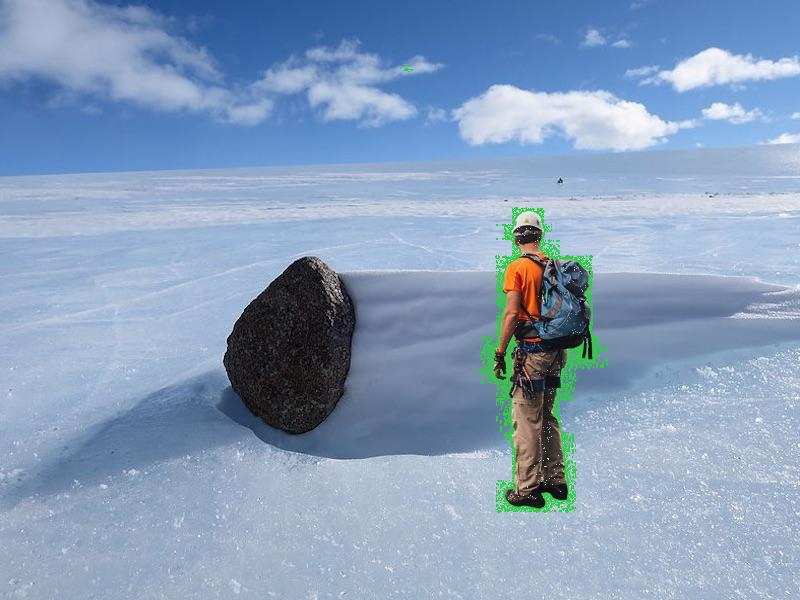
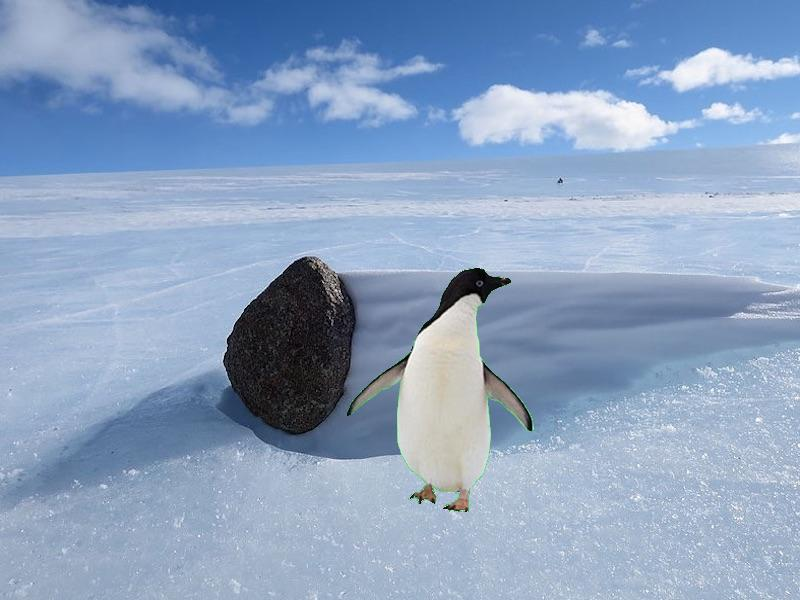
Added Checkpoint09

Changed region(s): [[0.4375, 0.33, 0.7812, 0.87], [0.5, 0.09, 0.5312, 0.12]]

diff --git a/Week8/cse110_images/prove08.py b/Week8/cse110_images/prove08.py
@@ -2,7 +2,7 @@
 from PIL import Image
 
 # Open and set images
-penguin_image = Image.open("hiker.jpg")
+penguin_image = Image.open("penguin.jpg")
 snow_image = Image.open("snowscape.jpg")
 final_image = Image.new("RGB", penguin_image.size)
 
@@ -12,14 +12,21 @@ pixels_snow = snow_image.load()
 pixels_final = final_image.load()
 
 # Printing RGB values of pixel (1, 1)
-print(pixels_final[1,1])
+print(pixels_penguin[400,400])
 
 for y in range(0, 600):
    for x in range(0, 800):
+      # Save background pixels
       r, g, b = pixels_snow[x, y]
+
+      # Fill final image with background
       pixels_final[x, y] = (r, g, b)
+
+      # Save all pengiun pixels
       r, g, b = pixels_penguin[x, y]
-      if ((r != 44) and (g != 207) and (b != 64)):
+
+      # Save penguin pixels to final image if pixel RGB condition is met
+      if not((r <= 80) and (g >= 80) and (g <= 230)):
          pixels_final[x, y] = (r, g, b)
 
 # Saving to output image file

diff --git a/Week9/checkpoint09.py b/Week9/checkpoint09.py
@@ -1,0 +1,20 @@
+print()
+name_input = ''
+names = []
+
+while name_input.lower() != 'end':
+   name_input = input('Type in the name of a friend: ')
+   if (name_input.lower() == 'end'):
+      break;
+   else: 
+      names.append(name_input.lower().title())
+
+print() 
+
+if name_input.lower() == 'end':
+   if names == []:
+      print('Unfortunately, you have no friends.')
+   else:
+      print('Your friends are: ')
+      for name in names:
+         print(name)
